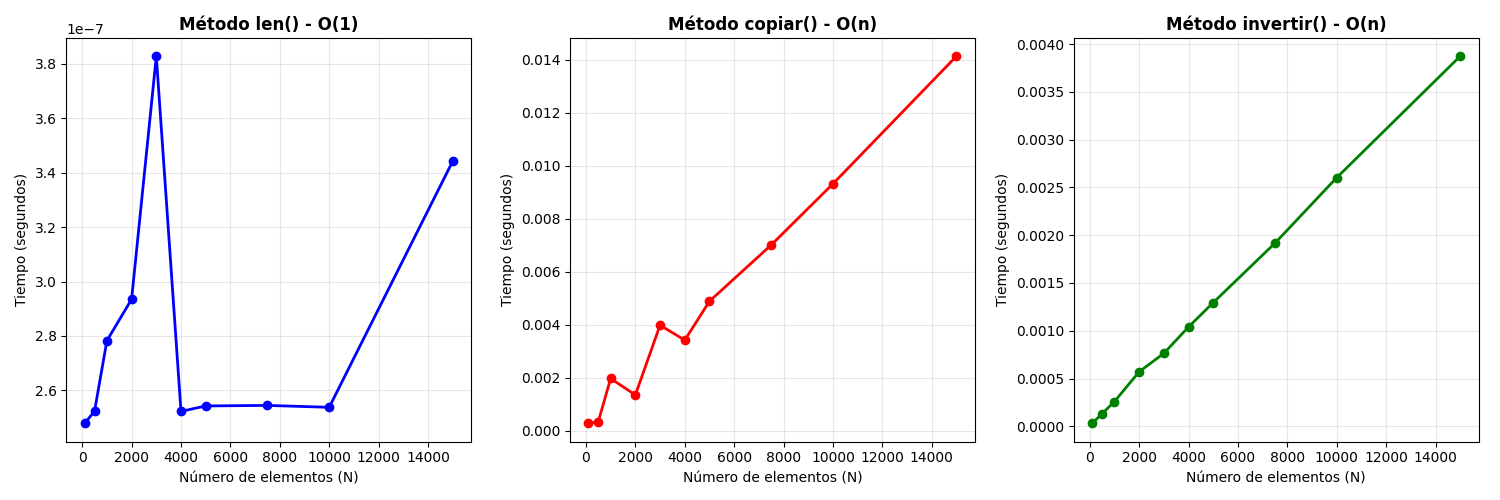
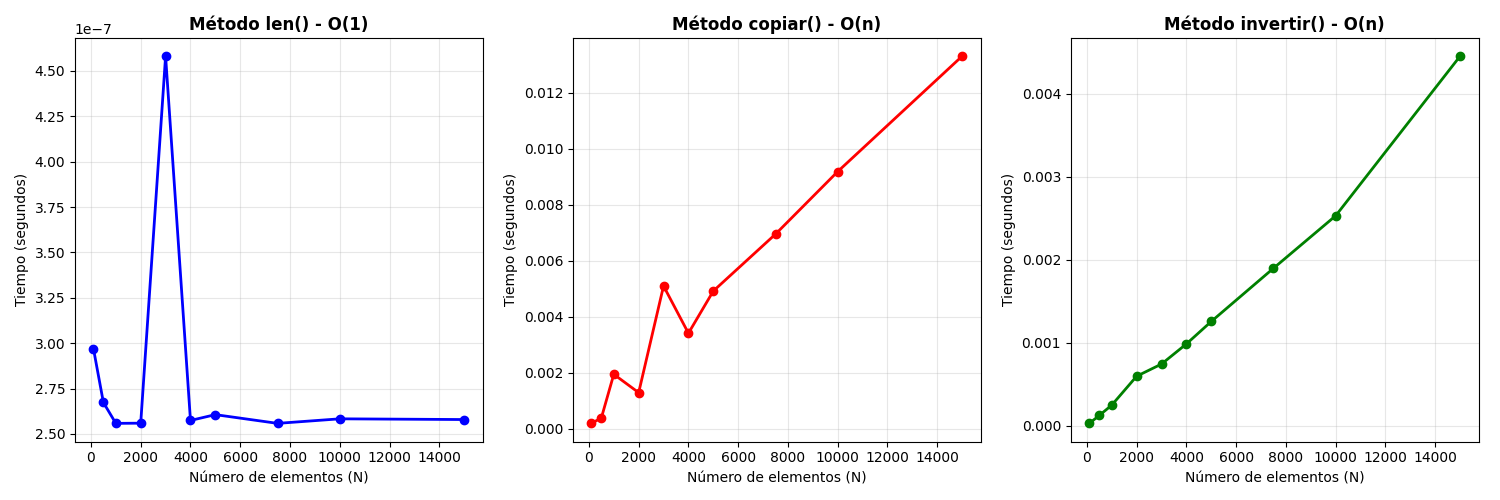
actualizado

diff --git a/TrabajoPractico_1/proyecto_1/modules/grafico.py b/TrabajoPractico_1/proyecto_1/modules/grafico.py
@@ -1,15 +1,6 @@
-import matplotlib
-import matplotlib.pyplot as plt
-import os
-import sys
 import time
 import matplotlib.pyplot as plt
 import numpy as np
-
-if __package__ is None and __name__ == "__main__":
-    current_dir = os.path.abspath(os.path.dirname(__file__))
-    if current_dir not in sys.path:
-        sys.path.insert(0, current_dir)
 
 from ayedfiuner.estructuras.LDE import ListaDobleEnlazada
 
@@ -100,7 +91,7 @@ if __name__ == "__main__":
     plt.xlabel('Número de elementos (N)')
     plt.ylabel('Tiempo (microsegundos)')
     plt.grid(True, alpha=0.3)
-    mostrar_o_guardar(os.path.abspath(os.path.join(os.path.dirname(__file__), "..", "grafico_len.png")))
+    mostrar_o_guardar("grafico_len.png")
 
     # ==== Gráficas individuales en SEGUNDOS ====
     plt.figure(figsize=(15, 5))
@@ -130,7 +121,7 @@ if __name__ == "__main__":
     plt.grid(True, alpha=0.3)
 
     plt.tight_layout()
-    mostrar_o_guardar(os.path.abspath(os.path.join(os.path.dirname(__file__), "..", "grafico_comparacion.png")))
+    mostrar_o_guardar("grafico_comparacion.png")
 
     # ==== Valores en tabla ====
     print("\n=== ANÁLISIS DE RESULTADOS ===")
